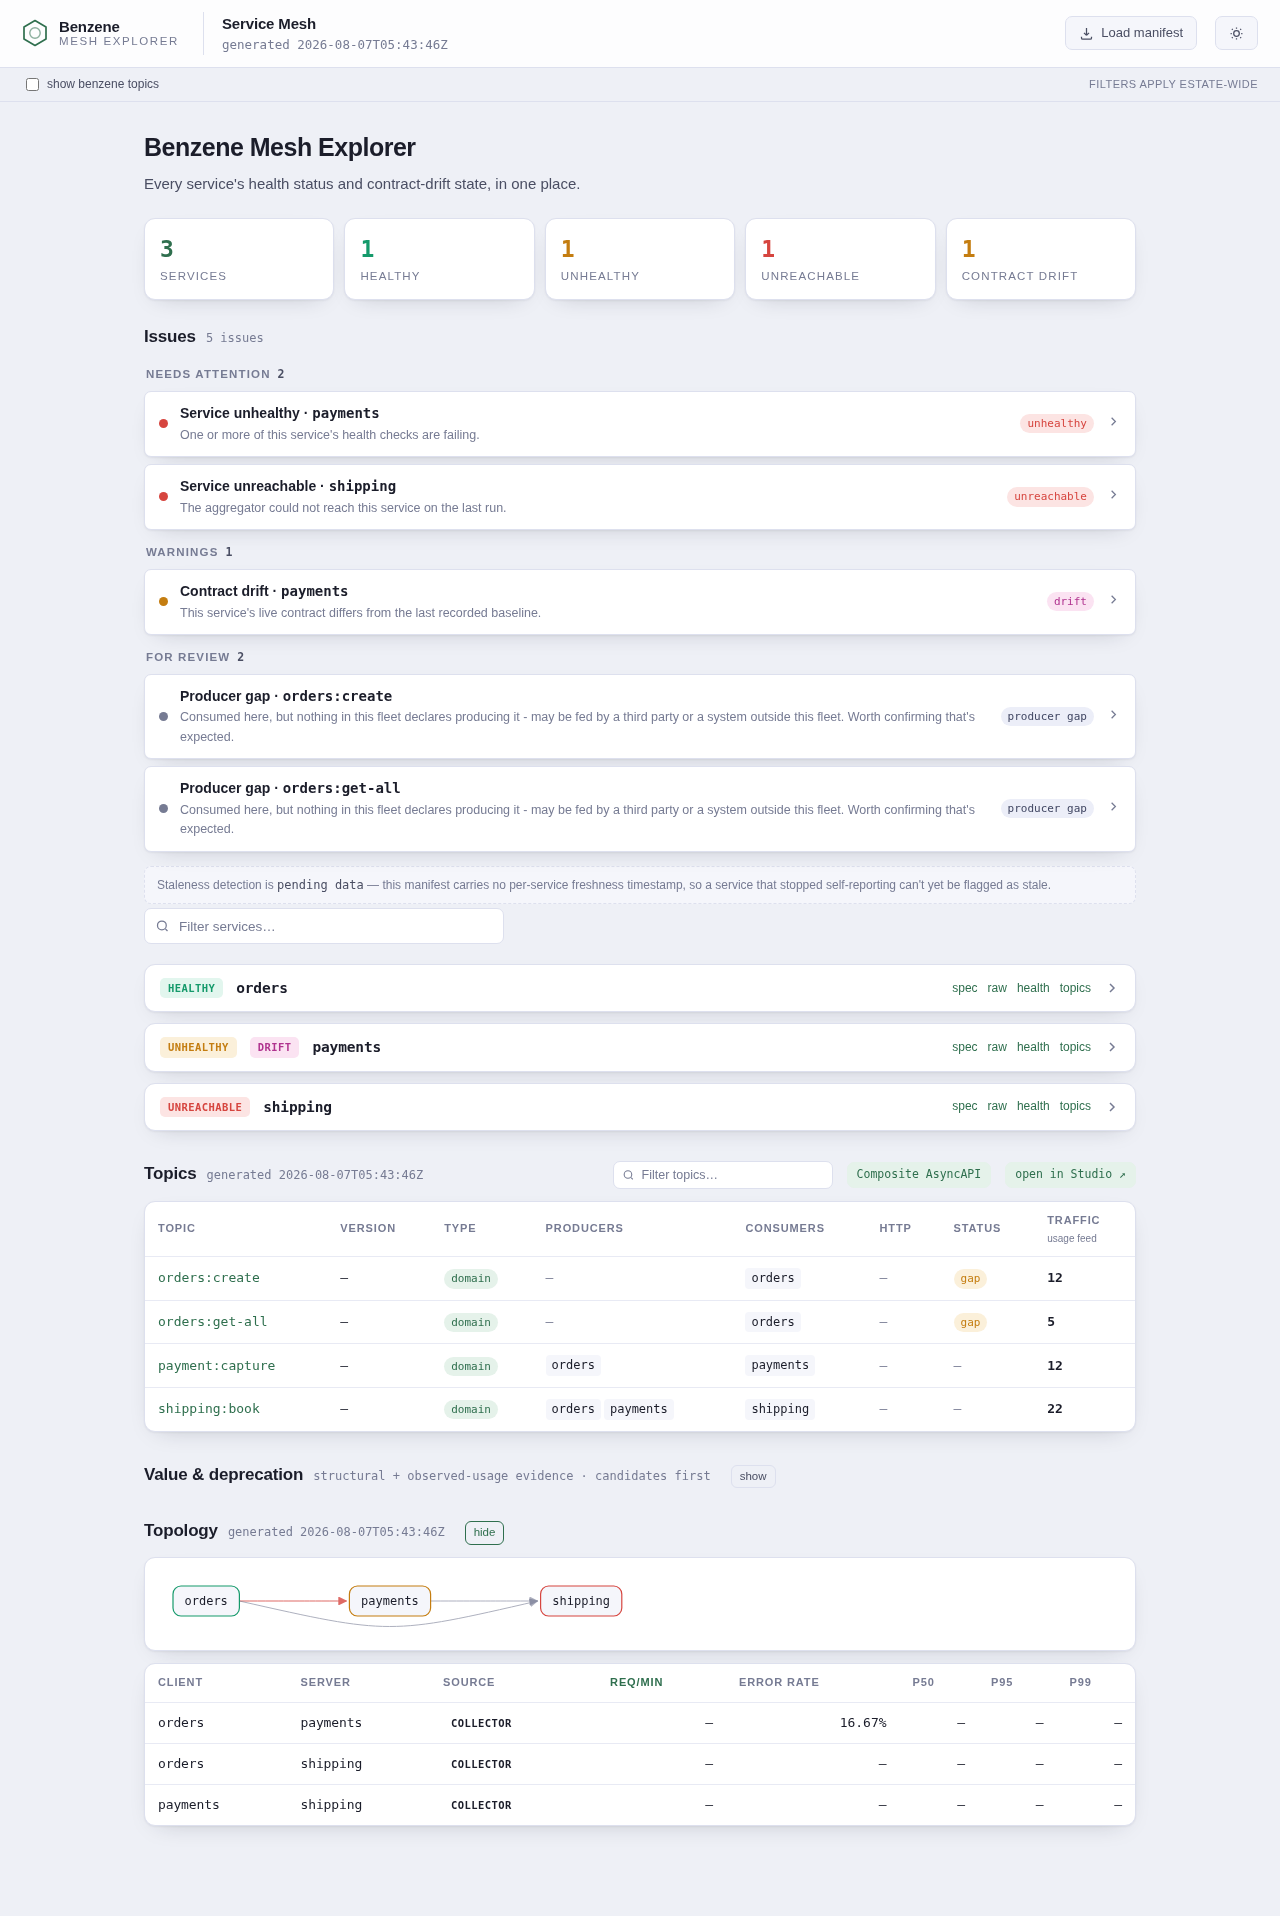
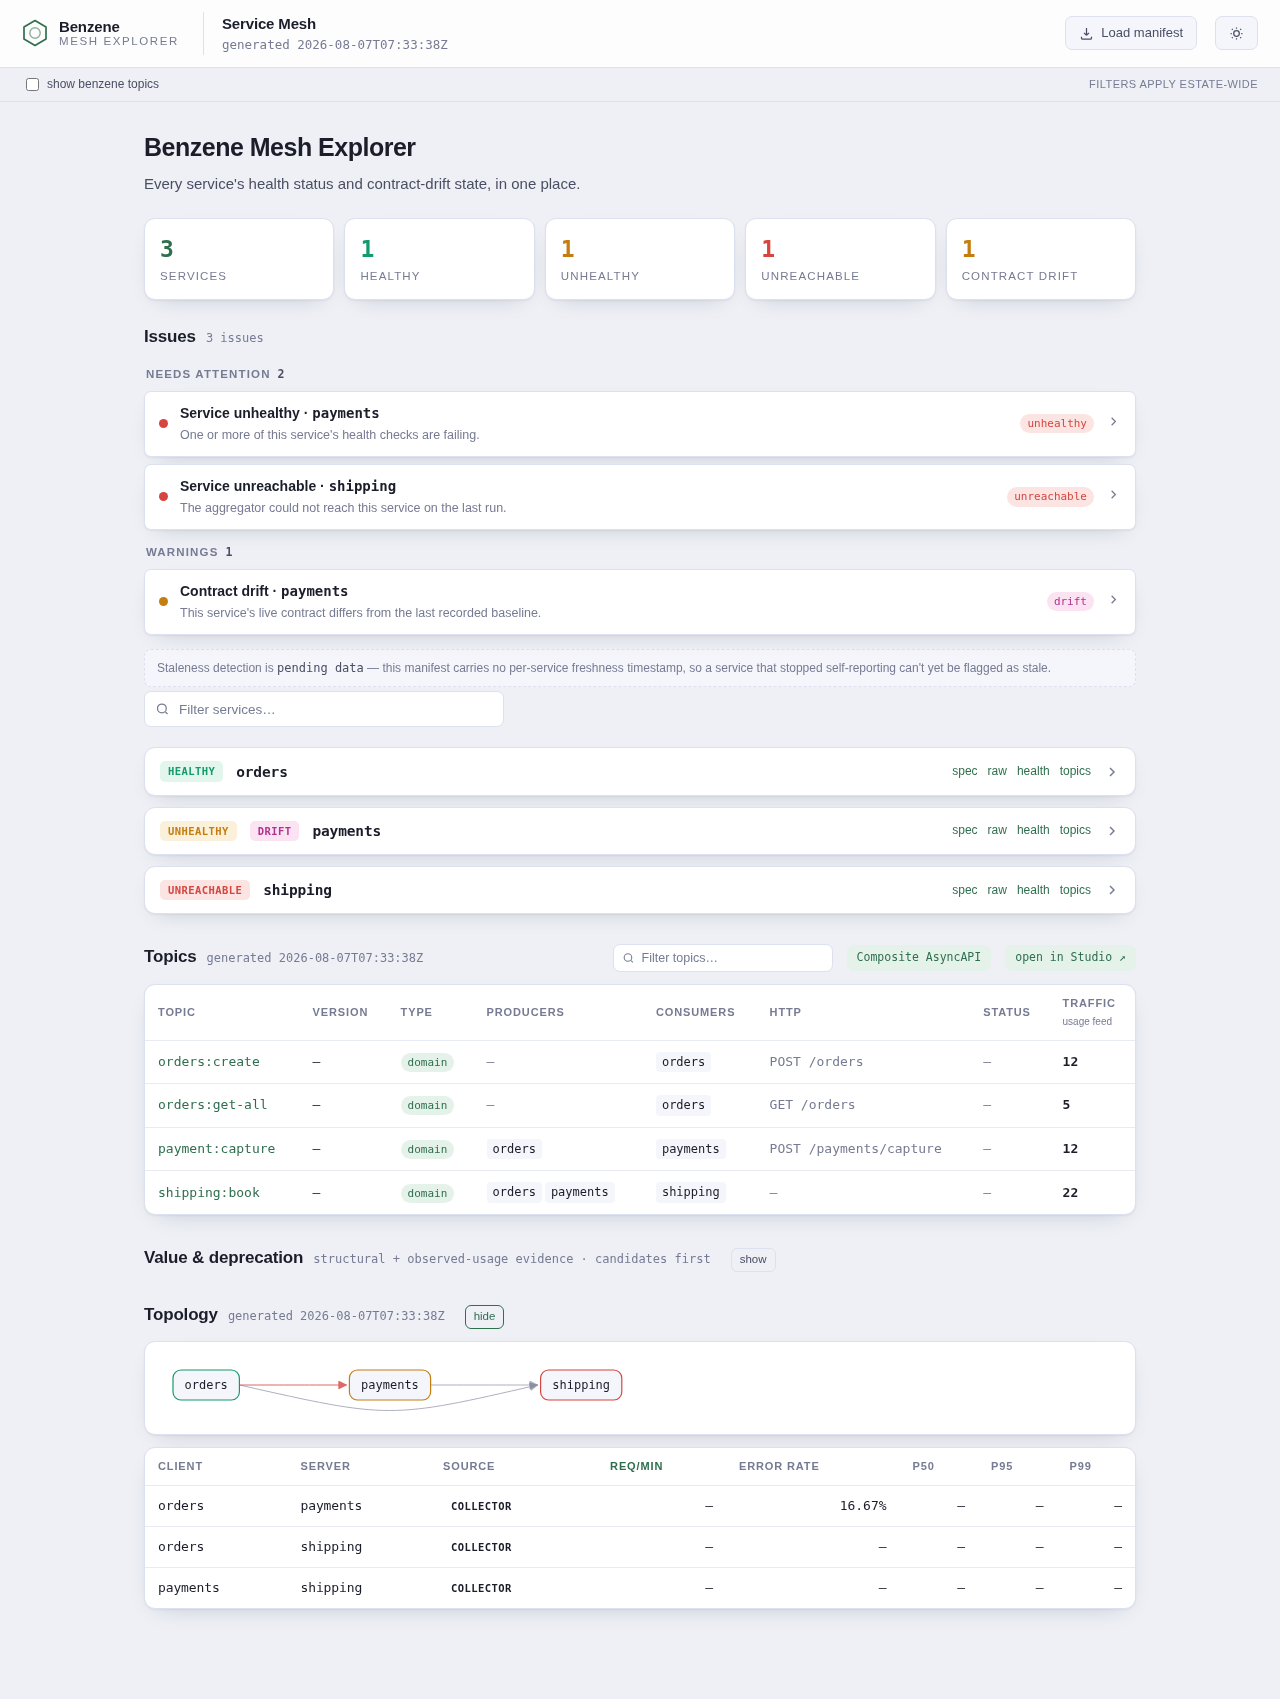
proof: assert the distributed topics-table HTTP column is populated
Extend the shared DOM extraction to capture the catalog topics table, and add a
distributed-proof assertion that orders:create / orders:get-all now carry their
{method, path} mappings (POST /orders, GET /orders) and no longer show `gap` —
the browser-driven proof of the topics[].http wire change. Refresh
mesh-host-proof.png from the green run.

Claude-Session: https://claude.ai/code/session_01YBLXddB6oXrxXjGR7wuYQz

diff --git a/deploy/mesh/prove.py b/deploy/mesh/prove.py
@@ -61,6 +61,27 @@ def _stop_stack(stack: Stack, loop: asyncio.AbstractEventLoop, thread: threading
     loop.close()
 
 
+def _assert_topic_http_mappings(facts: dict) -> None:
+    """The distributed win for the route-mapping change: the topics table's HTTP column is populated.
+
+    Before the ``topics[].http`` spec extension, ``orders:create`` / ``orders:get-all`` rendered as ``gap``
+    because the transport-neutral ``/benzene/spec`` carried no route table, so ``consumers[].httpMappings``
+    came back empty over the wire. After it, orders' spec rides its HTTP routes along, the aggregator reads
+    them into ``topics.json``, and the UI's HTTP cell for those topics is non-empty and the ``gap`` clears.
+    """
+    topics = {t["topic"]: t for t in facts.get("topics", [])}
+    for name in ("orders:create", "orders:get-all"):
+        assert name in topics, f"topic {name} missing from the topics table: {sorted(topics)}"
+        cell = topics[name]
+        assert cell["http"] and cell["http"] != "–", (
+            f"{name} HTTP cell is empty — the producer gap is not closed: {cell}"
+        )
+        assert "gap" not in cell["status"].lower(), f"{name} still shows a gap status: {cell}"
+    # The exact mappings orders exposes, now visible on the distributed path.
+    assert "POST /orders" in topics["orders:create"]["http"], topics["orders:create"]
+    assert "GET /orders" in topics["orders:get-all"]["http"], topics["orders:get-all"]
+
+
 def drive_and_assert(ui_url: str, screenshot: str) -> dict:
     """Load the host-served UI in headless Chromium, assert the live DOM, and screenshot it."""
     from playwright.sync_api import sync_playwright
@@ -72,6 +93,9 @@ def drive_and_assert(ui_url: str, screenshot: str) -> dict:
         page.goto(ui_url, wait_until="networkidle")
         page.wait_for_selector("article.svc", timeout=15000)
         page.wait_for_selector("#topology-table tbody tr", state="attached", timeout=15000)
+        # The catalog's topics table renders on load too (its section is collapsed) — wait for a row to be
+        # attached so the HTTP-mapping assertions can read it from the DOM regardless of visibility.
+        page.wait_for_selector("#topics-tbody tr", state="attached", timeout=15000)
         facts = page.evaluate(_EXTRACT_JS)
         toggle = page.query_selector('button[data-sec-toggle="topology-content"]')
         if toggle:
@@ -81,6 +105,7 @@ def drive_and_assert(ui_url: str, screenshot: str) -> dict:
         browser.close()
 
     _assert_facts(facts)
+    _assert_topic_http_mappings(facts)
     return facts
 
 

diff --git a/examples/mesh_fleet/prove.py b/examples/mesh_fleet/prove.py
@@ -106,7 +106,16 @@ _EXTRACT_JS = """
     return { client: tds[0] && tds[0].textContent.trim(), server: tds[1] && tds[1].textContent.trim(),
              source: src ? src.textContent.trim() : null };
   });
-  return { services, edges, docTitle: (document.getElementById('doc-title') || {}).textContent };
+  // The catalog's topics table: column order is Topic, Version, Type, Producers, Consumers, HTTP, Status.
+  // The HTTP cell (td[5], .t-http) shows the (method, path) mappings, or "–" when none are known.
+  const topicRows = Array.from(document.querySelectorAll('#topics-tbody tr'));
+  const topics = topicRows.map(r => {
+    const tds = r.querySelectorAll('td');
+    return { topic: tds[0] && tds[0].textContent.trim(),
+             http: tds[5] ? tds[5].textContent.trim() : '',
+             status: tds[6] ? tds[6].textContent.trim() : '' };
+  }).filter(t => t.topic);
+  return { services, edges, topics, docTitle: (document.getElementById('doc-title') || {}).textContent };
 }
 """
 
